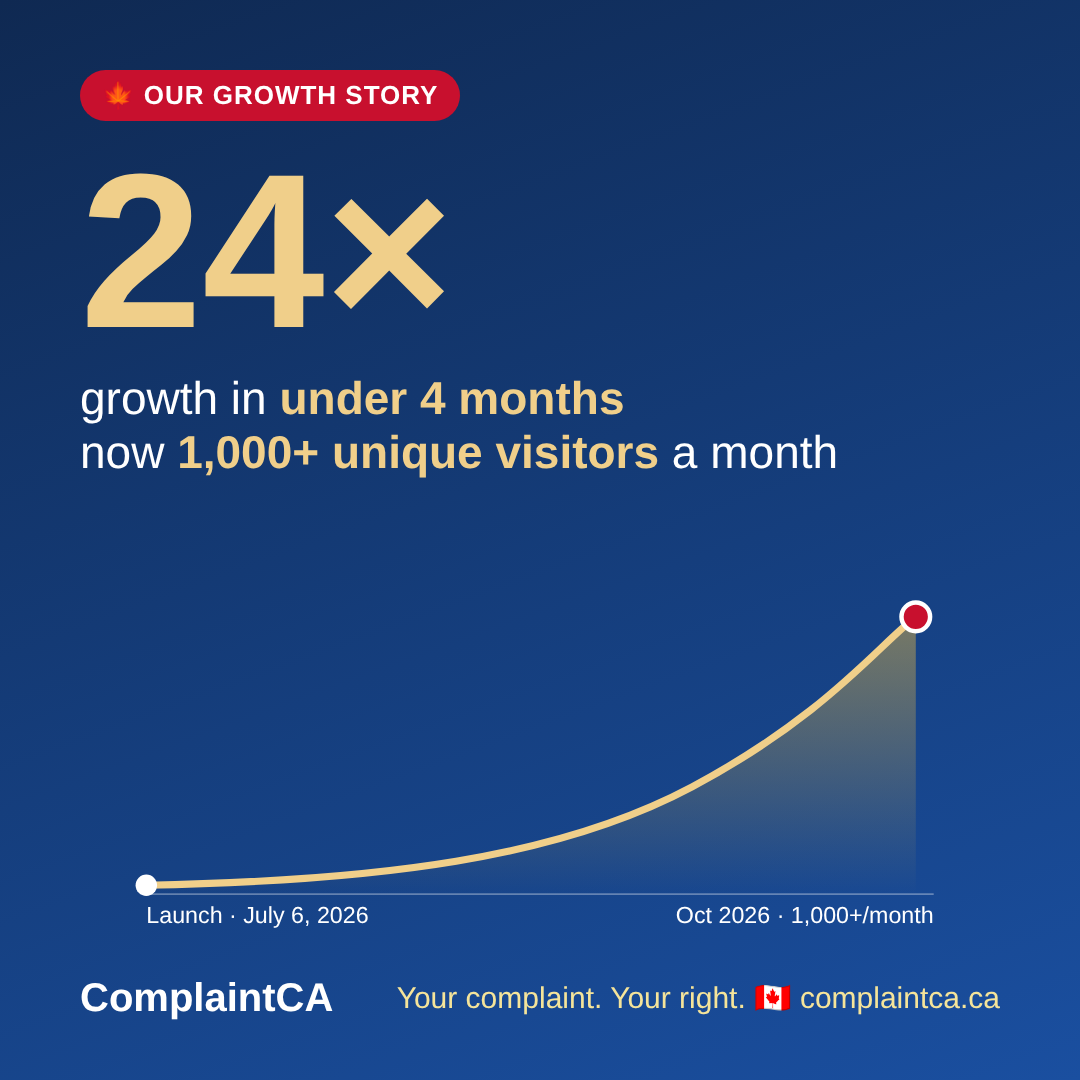
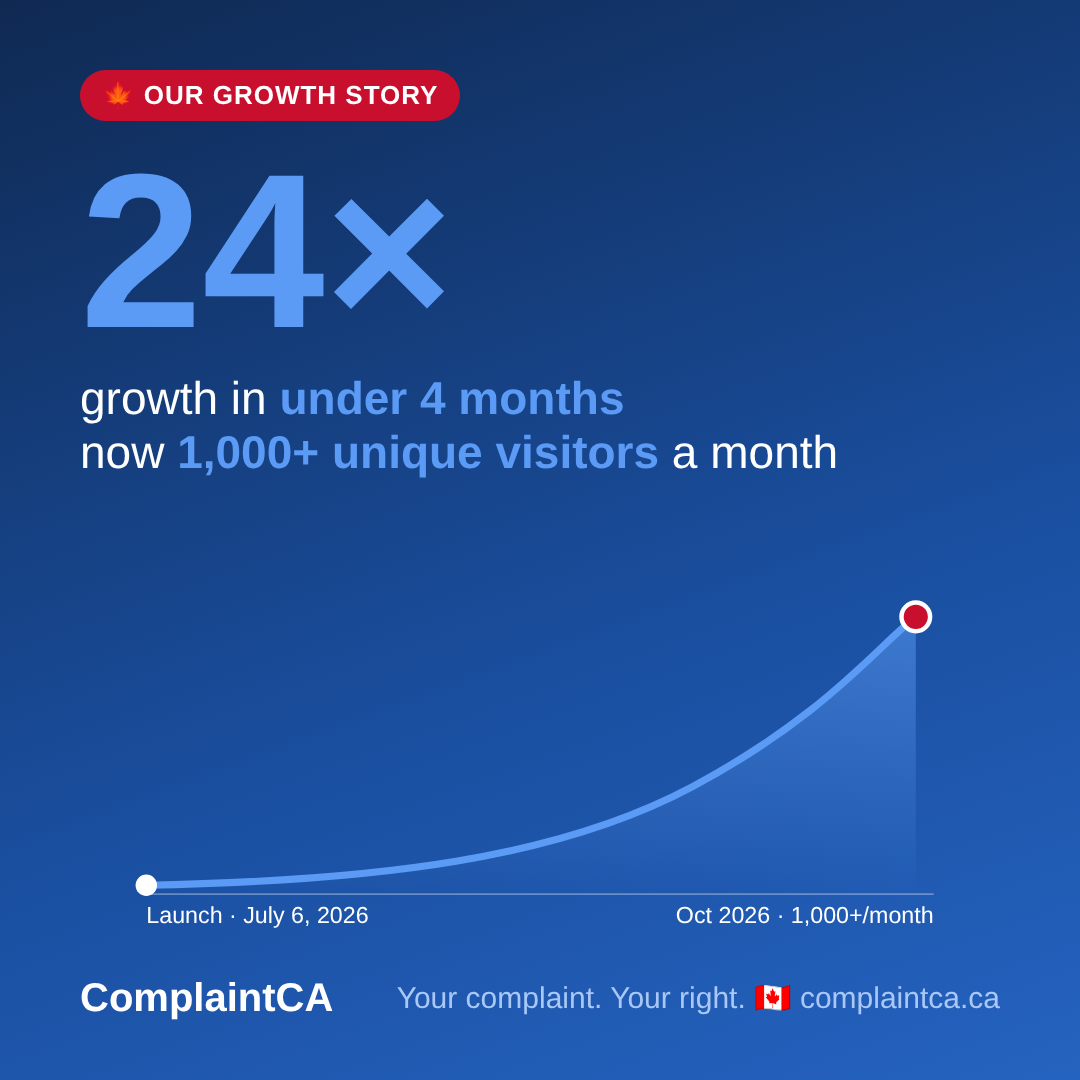
FB 24x post: switch to site blue palette
Claude-Session: https://claude.ai/code/session_01NuhmwVUq8hDpYMba7ByM6G

diff --git a/social/fb-24x/post.html b/social/fb-24x/post.html
@@ -1,19 +1,19 @@
 <!doctype html><html><head><meta charset="utf-8"><style>
-body{margin:0;width:1080px;height:1080px;font-family:Arial,Helvetica,sans-serif;background:linear-gradient(160deg,#0f2952,#1a4fa0);color:#fff;position:relative;overflow:hidden}
+body{margin:0;width:1080px;height:1080px;font-family:Arial,Helvetica,sans-serif;background:linear-gradient(160deg,#0f2952 0%,#1a4fa0 60%,#2563c0 100%);color:#fff;position:relative;overflow:hidden}
 .top{padding:70px 80px 0}
 .tag{display:inline-block;background:#c8102e;padding:10px 22px;border-radius:30px;font-size:26px;font-weight:bold;letter-spacing:1px}
-h1{font-size:220px;margin:20px 0 0;color:#f0cf8a;line-height:1}
+h1{font-size:220px;margin:20px 0 0;color:#5b9bf5;line-height:1}
 h2{font-size:46px;margin:10px 0 0;font-weight:normal}
 svg{position:absolute;left:60px;bottom:150px}
 .foot{position:absolute;bottom:60px;left:80px;right:80px;display:flex;justify-content:space-between;align-items:center;font-size:30px}
-.foot b{font-size:40px}.foot span{color:#f5e49a}
+.foot b{font-size:40px}.foot span{color:#a9c8f7}
 </style></head><body>
-<div class="top"><div class="tag">🍁 OUR GROWTH STORY</div><h1>24×</h1><h2>growth in <b style="color:#f0cf8a">under 4 months</b><br>now <b style="color:#f0cf8a">1,000+ unique visitors</b> a month</h2></div>
+<div class="top"><div class="tag">🍁 OUR GROWTH STORY</div><h1>24×</h1><h2>growth in <b style="color:#5b9bf5">under 4 months</b><br>now <b style="color:#5b9bf5">1,000+ unique visitors</b> a month</h2></div>
 <svg width="960" height="380" viewBox="0 0 960 380" style="height:340px">
-<defs><linearGradient id="g" x1="0" y1="0" x2="0" y2="1"><stop offset="0" stop-color="#c9a84c" stop-opacity=".55"/><stop offset="1" stop-color="#c9a84c" stop-opacity="0"/></linearGradient></defs>
+<defs><linearGradient id="g" x1="0" y1="0" x2="0" y2="1"><stop offset="0" stop-color="#5b9bf5" stop-opacity=".55"/><stop offset="1" stop-color="#5b9bf5" stop-opacity="0"/></linearGradient></defs>
 <line x1="40" y1="340" x2="920" y2="340" stroke="#ffffff55" stroke-width="2"/>
 <path d="M40 330 C300 325 500 300 650 220 S860 60 900 30 L900 340 L40 340Z" fill="url(#g)"/>
-<path d="M40 330 C300 325 500 300 650 220 S860 60 900 30" fill="none" stroke="#f0cf8a" stroke-width="8" stroke-linecap="round"/>
+<path d="M40 330 C300 325 500 300 650 220 S860 60 900 30" fill="none" stroke="#5b9bf5" stroke-width="8" stroke-linecap="round"/>
 <circle cx="40" cy="330" r="12" fill="#fff"/><circle cx="900" cy="30" r="16" fill="#c8102e" stroke="#fff" stroke-width="5"/>
 <text x="40" y="372" fill="#fff" font-size="26">Launch · July 6, 2026</text>
 <text x="920" y="372" fill="#fff" font-size="26" text-anchor="end">Oct 2026 · 1,000+/month</text>
